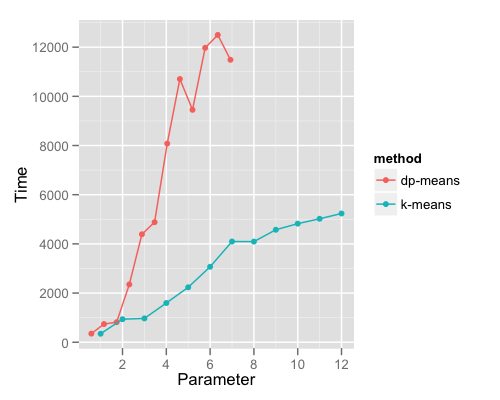
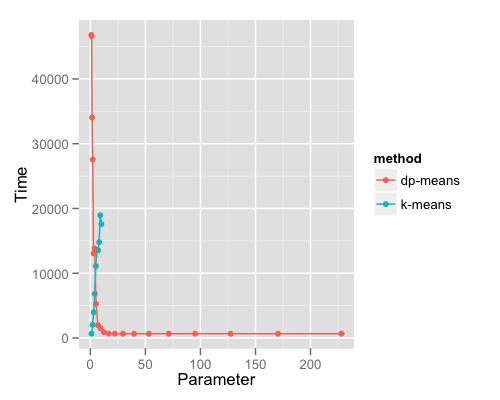
First pass at application that minimizes the dp-means cost function on cross validation set in order to determine lambda.

diff --git a/test.py b/test.py
@@ -4,9 +4,11 @@ import sys
 import csv
 import math
 import timer
+import random
 from optparse import OptionParser
 parser = OptionParser()
-parser.add_option("-f", "--file", dest="file", default="./input/c5_s100_f3.csv",
+
+parser.add_option("-f", "--file", dest="file", default="./input/c4_s300_f2.csv",
                  help="Input file name")
 parser.add_option("-i", "--iterations", dest="iter", default=20,
                  help="Iterations to use in searching for min error. Default 20.")
@@ -15,7 +17,7 @@ parser.add_option("-i", "--iterations", dest="iter", default=20,
 filename = options.file
 iters = int(options.iter)
 
-maxClusters = 12
+maxClusters = 10
 
 # Read data
 res = []
@@ -47,28 +49,36 @@ def writeFile( postfix, k):
 	for x in k.getErrors():
 		eWrtr.writerow(x)
 
+# make sure data is in random order
+random.shuffle(res)
+# 20 percent set aside for cross-validation
+xval = int(0.20*len(res))
+
 for c in range(1,maxClusters+1):
 	minError = sys.maxint
 	with timer.Timer():
 		for i in range(0,iters):
-			k1 = cluster.kmeans(res, c)
-			err = k1.run()
-			if err < minError:
-				minError = err
+			k1 = cluster.kmeans(res, c, xval)
+			err, xerr = k1.run()
+			if xerr < minError:
+				minError = xerr
 				writeFile("k-%d-%f1.4"%(c,err), k1)
 			print 'k-means,',i,',',c,',',minError,',Inter'
 			sys.stderr.write("kmeans clusters: %d iter: %d \n"%(c,i))
 		print 'k-means,',c,',',minError,',',
-				
-for l in [(math.sqrt(nFeatures) * dataSpread)/i for i in range(1, maxClusters+1)]:
+
+minl = math.log(0.9)
+maxl = math.log(math.sqrt(2.0) * dataSpread)
+dl = (maxl-minl)/float(maxClusters)
+for l in [math.exp(minl + i*dl) for i in range(0, 2*maxClusters)]:
 	minError = sys.maxint
 	with timer.Timer():
 		for i in range(0,iters):
-			k1 = cluster.dpmeans(res, l)
-			err = k1.run()
-			if err < minError:
-				minError = err
+			k1 = cluster.dpmeans(res, l, xval)
+			err, xerr = k1.run()
+			if xerr < minError:
+				minError = xerr
 				writeFile("k-%d-%f1.4"%(c,err), k1)
-			print 'dp-means,',i,',',dataSpread/l,',',minError,',Inter'
+			print 'dp-means,',i,',',l,',',minError,',Inter'
 			sys.stderr.write("dpmeans lambda: %2.5f iter: %d \n"%(c,i))
-		print 'dp-means,',dataSpread/l,',',minError,',',
+		print 'dp-means,',l,',',minError,',',

diff --git a/DPopt.py b/DPopt.py
@@ -1,0 +1,66 @@
+#!/usr/bin/env python
+import cluster
+import sys
+import csv
+import math
+import random
+import scipy.optimize
+
+# function to minimize
+def g(l, returnObject=False):
+        minError = sys.maxint
+        for i in range(0,iters):
+                k1 = cluster.dpmeans(res, l, xVal)
+                err, xerr = k1.run()
+                if xerr < minError:
+                        minError = xerr
+			kmin = k1
+	if returnObject:
+		return minError, k1
+        return minError
+
+#parameters
+iters = 8        # iterations in search for min
+maxClusters = 12 # used for setting minimum lambda
+xValFrac = 0.2   # 20% of data for xVal
+
+# Read data from standard in
+res = []
+for row in csv.reader(sys.stdin):
+	res.append([float(x) for x in row])
+nFeatures = len(res[0])
+minx, maxx = [sys.maxint for i in range(0,nFeatures)], [-sys.maxint for i in range(0,nFeatures)]
+for r in res:
+	idx = 0
+	for i in minx:
+		if r[idx] < i:
+			minx[idx] = r[idx]
+		idx += 1
+	idx = 0
+	for i in maxx:
+	        if r[idx] > i:
+	                maxx[idx] = r[idx]
+	        idx += 1
+dataSpread = max([abs(x - y) for x, y in zip(maxx, minx)])
+# quick and dirty min scale is average dist if data was along dataspread
+dataGrain = dataSpread/maxClusters
+# make sure data is in random order
+random.shuffle(res)
+# set aside for cross-validation
+xVal = int(xValFrac*len(res))
+
+optLambda = scipy.optimize.brent(g, 
+			brack=(1./dataSpread, 1./dataGrain),
+			tol=1e-4, 
+			full_output=0,
+			maxiter=100)
+
+e,k = g(optLambda, returnObject=True)
+wrtr = csv.writer(open("./output/opt_result.csv","wb"))
+for x in k.getOutput():
+	wrtr.writerow(x)
+eWrtr = csv.writer(open("./output/opt_error.csv","wb"))
+for x in k.getErrors():
+	eWrtr.writerow(x)
+print "lambda: %2.5f\n  with error: %2.5f\n"%(optLambda,e)
+

diff --git a/cluster.py b/cluster.py
@@ -116,7 +116,7 @@ class kmeans(object):
 		sys.stderr.write("Final cross-validation error: %f\n"%prevXVal)
 		# This is a step past stop if using cross-validation...
 		self.output("Final")
-		return err
+		return err, errXVal
 
 	def output(self, iter):
 		for i in range(0,self.size):
@@ -153,6 +153,10 @@ class dpmeans(kmeans):
 		# don't create new clusters on cross-validation data
 		for i in range(self.size, self.allSize):
 			self.dataClusterId[i], dmin = self.nearestCluster(self.X[i])
+
+	def error(self):
+		err, xValErr = kmeans.error(self)
+		return err + self.lam * self.k, xValErr + self.lam * self.k
 
 
 if __name__ == '__main__':
